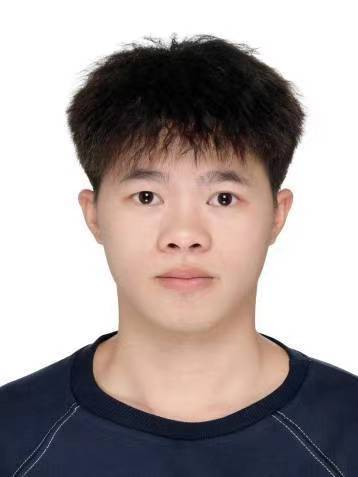
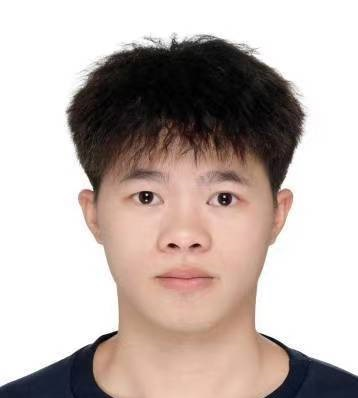
3

diff --git a/en/members/index.html b/en/members/index.html
@@ -1006,14 +1006,14 @@ High-throughput computing screening.</dd>
                 </div>
             </div> <!-- 2 students a row -->
 			<div class="row"> <!-- 2 students a row -->
-                <div class="col-md-6" id="Hai-Ren huang"> 
+                <div class="col-md-6" id="Ren-Hai Huang"> 
                     <div class="row" style="padding:5px;">
                         <div class="col-md-4">
-                            <img alt="Hai-Ren huang" src="/en/members/renhai-huang/renhai-huang.jpg" class="img-circle">
+                            <img alt="Ren-Hai Huang" src="/en/members/renhai-huang/renhai-huang.jpg" class="img-circle">
                         </div>
                         <div class="col-md-8">
                             <dl>
-                                <dt>Hai-Ren huang</dt>
+                                <dt>Ren-Hai Huang</dt>
                                 <dd>09/2024-present PhD student</dd>
                                 <dt>Research areas:</dt>
                                 <dd>Molecular dynamics simulation of nanoparticle composites.</dd>
